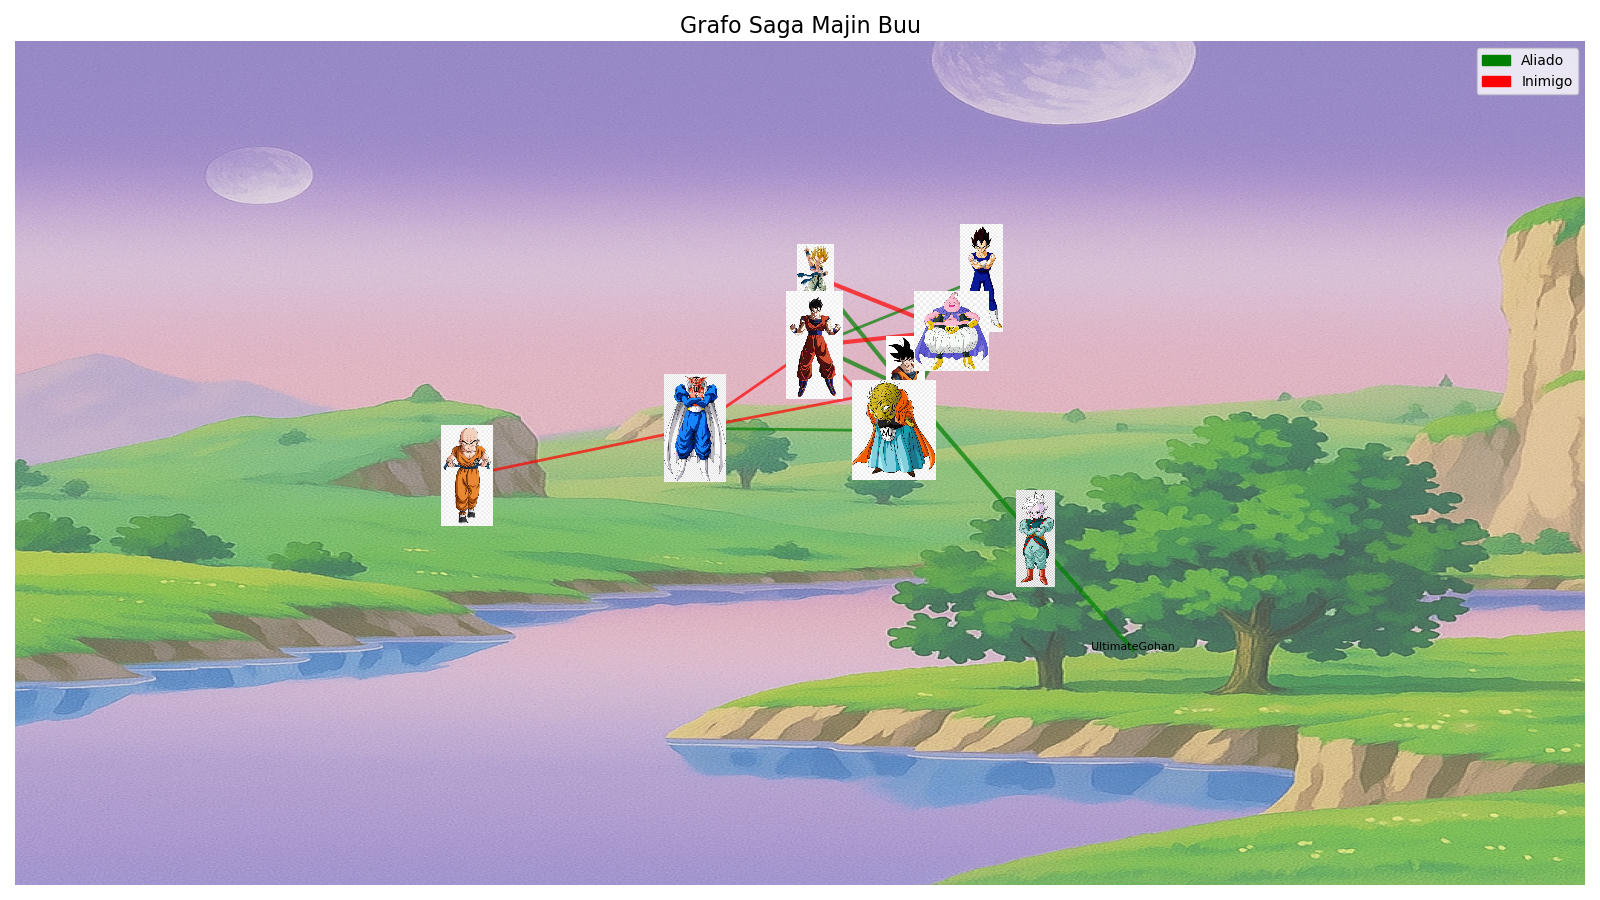
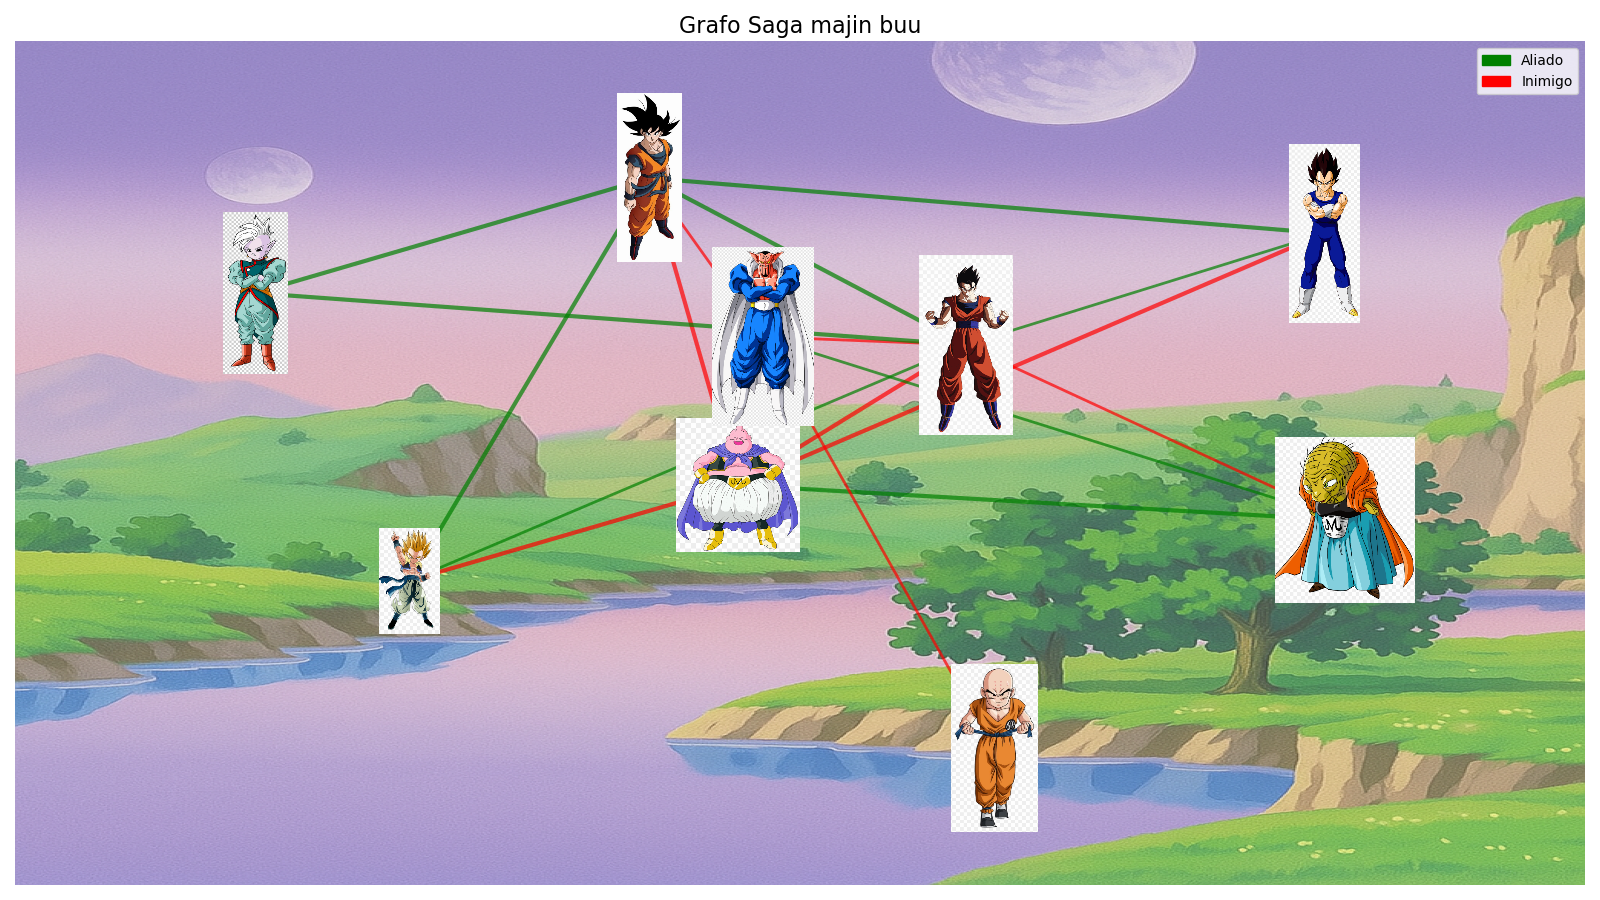
finalizando

diff --git a/src/grafo.py b/src/grafo.py
@@ -1,141 +1,11 @@
-# construir_grafo.py
-
-import csv
+from utils import carregar_imagens_personagens, carregar_relacoes, carregar_imagem, construir_grafo_por_saga, imprimir_metricas, desenhar_grafo_com_imagens
 import os
 import networkx as nx
-import matplotlib.pyplot as plt
-from PIL import Image
-from matplotlib.offsetbox import OffsetImage, AnnotationBbox
 
-# Constantes
 PERSONAGENS_CSV = "data/personagens.csv"
 RELACOES_CSV = "data/relacoes.csv"
 OUTPUT_DIR = "outputs/"
-FIGSIZE = (16, 9)
 
-def carregar_imagens_personagens(path):
-    imagens_personagens = {}
-    with open(path, newline='', encoding='utf-8') as csvfile:
-        reader = csv.DictReader(csvfile)
-        for row in reader:
-            imagens_personagens[row['nome']] = row['imagem']
-    return imagens_personagens
-
-def carregar_relacoes(path):
-    relacoes = []
-    with open(path, newline='', encoding='utf-8') as csvfile:
-        reader = csv.DictReader(csvfile)
-        for row in reader:
-            relacoes.append({
-                "origem": row["origem"],
-                "destino": row["destino"],
-                "tipo": row["tipo"],
-                "saga": row["saga"],
-                "peso": int(row["peso"])
-            })
-    return relacoes
-
-def carregar_imagem(caminho, zoom=0.15):
-    try:
-        imagem = Image.open(caminho)
-        return OffsetImage(imagem, zoom=zoom)
-    except FileNotFoundError:
-        print(f"Imagem não encontrada: {caminho}")
-        return None
-
-def construir_grafo_por_saga(relacoes, saga_nome=None):
-    G = nx.Graph()
-    for r in relacoes:
-        if saga_nome is None or r["saga"].lower() == saga_nome.lower():
-            G.add_node(r["origem"])
-            G.add_node(r["destino"])
-            G.add_edge(
-                r["origem"],
-                r["destino"],
-                tipo=r["tipo"],
-                peso=r["peso"]
-            )
-    return G
-
-def imprimir_metricas(G, nome_grafo):
-    print(f"\nMétricas do grafo: {nome_grafo}")
-    graus = dict(G.degree())
-    print("Grau dos nós:")
-    for k, v in graus.items():
-        print(f"  {k}: {v}")
-
-    centralidade = nx.betweenness_centrality(G)
-    print("\nCentralidade (betweenness):")
-    for k, v in centralidade.items():
-        print(f"  {k}: {v:.3f}")
-
-    componentes = nx.number_connected_components(G)
-    print(f"\nComponentes conectados: {componentes}")
-
-    if nx.is_connected(G):
-        diametro = nx.diameter(G)
-        print(f"Diâmetro da rede: {diametro}")
-    else:
-        print("Grafo desconexo, não tem diâmetro definido")
-
-def desenhar_grafo_com_imagens(G, pos, imagens, titulo="", nome_arquivo="grafo.png", saga=None):
-    fig, ax = plt.subplots(figsize=FIGSIZE)
-
-    # Fundo por saga
-    if saga:
-        saga_normalizada = saga.strip().lower()
-        mapa_arquivo = None
-
-        if "saiyajin" in saga_normalizada:
-            mapa_arquivo = "mapaSagaSayajin.png"
-        elif "freeza" in saga_normalizada:
-            mapa_arquivo = "mapaNamekZ.png"
-        elif "cell" in saga_normalizada:
-            mapa_arquivo = "arenaCell.png"
-        elif "majin" in saga_normalizada:
-            mapa_arquivo = "PlanetaSenhorKaioshin.png"
-
-        if mapa_arquivo:
-            caminho_mapa = os.path.join("imagens", "mapas", mapa_arquivo)
-            if os.path.exists(caminho_mapa):
-                try:
-                    img = Image.open(caminho_mapa)
-                    x_vals = [p[0] for p in pos.values()]
-                    y_vals = [p[1] for p in pos.values()]
-                    ax.imshow(img, extent=[min(x_vals)-1, max(x_vals)+1, min(y_vals)-1, max(y_vals)+1], aspect='auto', alpha=0.8)
-                except Exception as e:
-                    print(f"Erro ao carregar plano de fundo da saga {saga}: {e}")
-
-    # Arestas
-    for u, v, data in G.edges(data=True):
-        cor = 'green' if data['tipo'] == 'aliado' else 'red'
-        largura = max(0.5, data['peso'])
-        ax.plot(
-            [pos[u][0], pos[v][0]],
-            [pos[u][1], pos[v][1]],
-            color=cor,
-            linewidth=largura,
-            alpha=0.7
-        )
-
-    # Nós
-    for node in G.nodes():
-        if node in imagens:
-            ab = AnnotationBbox(imagens[node], pos[node], frameon=False)
-            ax.add_artist(ab)
-        else:
-            ax.text(*pos[node], node, fontsize=8, ha='center')
-
-    import matplotlib.patches as mpatches
-    aliado_patch = mpatches.Patch(color='green', label='Aliado')
-    inimigo_patch = mpatches.Patch(color='red', label='Inimigo')
-    plt.legend(handles=[aliado_patch, inimigo_patch], loc='best')
-
-    ax.set_title(titulo, fontsize=16)
-    ax.set_axis_off()
-    plt.tight_layout()
-    plt.savefig(os.path.join(OUTPUT_DIR, nome_arquivo))
-    plt.show()
 
 def main():
     if not os.path.exists(OUTPUT_DIR):
@@ -144,11 +14,30 @@ def main():
     imagens_path = carregar_imagens_personagens(PERSONAGENS_CSV)
     relacoes = carregar_relacoes(RELACOES_CSV)
 
-    sagas = set(r['saga'] for r in relacoes)
+    chefes_finais = {
+        "saiyajin": "Vegeta (saga Saiyajin)",
+        "freeza": "Freeza",
+        "cell": "Cell",
+        "majin buu": "Majin Buu"
+    }
+
+    sagas = set(r['saga'].lower() for r in relacoes)
     for saga in sagas:
         G_saga = construir_grafo_por_saga(relacoes, saga)
         imprimir_metricas(G_saga, f"Grafo Saga {saga}")
-        pos_saga = nx.spring_layout(G_saga, seed=42)
+
+        chefe = None
+        for chave in chefes_finais.keys():
+            if chave in saga:
+                chefe = chefes_finais[chave]
+                break
+
+        if chefe and chefe in G_saga.nodes():
+            pos_init = {chefe: [0, 0]}
+            pos_saga = nx.spring_layout(G_saga, seed=42, k=2.0, fixed=[chefe], pos=pos_init)
+        else:
+            pos_saga = nx.spring_layout(G_saga, seed=42, k=2.0)
+
         imagens_saga = {}
         for node in G_saga.nodes():
             caminho_img = imagens_path.get(node)
@@ -156,13 +45,18 @@ def main():
                 img = carregar_imagem(caminho_img)
                 if img:
                     imagens_saga[node] = img
-        nome_arquivo = f"grafo_saga_{saga.lower().replace(' ', '_')}.png"
+
+        nome_arquivo = f"grafo_saga_{saga.replace(' ', '_')}.png"
         desenhar_grafo_com_imagens(
             G_saga, pos_saga, imagens_saga,
             f"Grafo Saga {saga}",
             nome_arquivo,
             saga=saga
         )
+
+
+
+
 
 if __name__ == "__main__":
     main()

diff --git a/src/utils.py b/src/utils.py
@@ -1,0 +1,134 @@
+# src/utils.py
+
+import csv
+import os
+import networkx as nx
+import matplotlib.pyplot as plt
+from PIL import Image
+from matplotlib.offsetbox import OffsetImage, AnnotationBbox
+
+FIGSIZE = (16, 9)
+
+def carregar_imagens_personagens(path):
+    imagens_personagens = {}
+    with open(path, newline='', encoding='utf-8') as csvfile:
+        reader = csv.DictReader(csvfile)
+        for row in reader:
+            imagens_personagens[row['nome']] = row['imagem']
+    return imagens_personagens
+
+def carregar_relacoes(path):
+    relacoes = []
+    with open(path, newline='', encoding='utf-8') as csvfile:
+        reader = csv.DictReader(csvfile)
+        for row in reader:
+            relacoes.append({
+                "origem": row["origem"],
+                "destino": row["destino"],
+                "tipo": row["tipo"],
+                "saga": row["saga"],
+                "peso": int(row["peso"])
+            })
+    return relacoes
+
+def carregar_imagem(caminho, zoom=0.25):
+    try:
+        imagem = Image.open(caminho)
+        return OffsetImage(imagem, zoom=zoom)
+    except FileNotFoundError:
+        print(f"Imagem não encontrada: {caminho}")
+        return None
+
+def construir_grafo_por_saga(relacoes, saga_nome=None):
+    G = nx.Graph()
+    for r in relacoes:
+        if saga_nome is None or r["saga"].lower() == saga_nome.lower():
+            G.add_node(r["origem"])
+            G.add_node(r["destino"])
+            G.add_edge(
+                r["origem"],
+                r["destino"],
+                tipo=r["tipo"],
+                peso=r["peso"]
+            )
+    return G
+
+def imprimir_metricas(G, nome_grafo):
+    print(f"\nMétricas do grafo: {nome_grafo}")
+    graus = dict(G.degree())
+    print("Grau dos nós:")
+    for k, v in graus.items():
+        print(f"  {k}: {v}")
+
+    centralidade = nx.betweenness_centrality(G)
+    print("\nCentralidade (betweenness):")
+    for k, v in centralidade.items():
+        print(f"  {k}: {v:.3f}")
+
+    componentes = nx.number_connected_components(G)
+    print(f"\nComponentes conectados: {componentes}")
+
+    if nx.is_connected(G):
+        diametro = nx.diameter(G)
+        print(f"Diâmetro da rede: {diametro}")
+    else:
+        print("Grafo desconexo, não tem diâmetro definido")
+
+def desenhar_grafo_com_imagens(G, pos, imagens, titulo="", nome_arquivo="grafo.png", saga=None):
+    fig, ax = plt.subplots(figsize=FIGSIZE)
+
+    # Fundo por saga
+    if saga:
+        saga_normalizada = saga.strip().lower()
+        mapa_arquivo = None
+
+        if "saiyajin" in saga_normalizada:
+            mapa_arquivo = "mapaSagaSayajin.png"
+        elif "freeza" in saga_normalizada:
+            mapa_arquivo = "mapaNamekZ.png"
+        elif "cell" in saga_normalizada:
+            mapa_arquivo = "arenaCell.png"
+        elif "majin" in saga_normalizada:
+            mapa_arquivo = "PlanetaSenhorKaioshin.png"
+
+        if mapa_arquivo:
+            caminho_mapa = os.path.join("imagens", "mapas", mapa_arquivo)
+            if os.path.exists(caminho_mapa):
+                try:
+                    img = Image.open(caminho_mapa)
+                    x_vals = [p[0] for p in pos.values()]
+                    y_vals = [p[1] for p in pos.values()]
+                    ax.imshow(img, extent=[min(x_vals)-1, max(x_vals)+1, min(y_vals)-1, max(y_vals)+1], aspect='auto', alpha=0.8)
+                except Exception as e:
+                    print(f"Erro ao carregar plano de fundo da saga {saga}: {e}")
+
+    # Arestas
+    for u, v, data in G.edges(data=True):
+        cor = 'green' if data['tipo'] == 'aliado' else 'red'
+        largura = max(0.5, data['peso'])
+        ax.plot(
+            [pos[u][0], pos[v][0]],
+            [pos[u][1], pos[v][1]],
+            color=cor,
+            linewidth=largura,
+            alpha=0.7
+        )
+
+    # Nós
+    for node in G.nodes():
+        if node in imagens:
+            ab = AnnotationBbox(imagens[node], pos[node], frameon=False)
+            ax.add_artist(ab)
+        else:
+            ax.text(*pos[node], node, fontsize=8, ha='center')
+
+    import matplotlib.patches as mpatches
+    aliado_patch = mpatches.Patch(color='green', label='Aliado')
+    inimigo_patch = mpatches.Patch(color='red', label='Inimigo')
+    plt.legend(handles=[aliado_patch, inimigo_patch], loc='best')
+
+    ax.set_title(titulo, fontsize=16)
+    ax.set_axis_off()
+    plt.tight_layout()
+    plt.savefig(os.path.join("outputs", nome_arquivo))
+    plt.show()

diff --git a/src/view_for_saga.py b/src/view_for_saga.py
@@ -1,0 +1,42 @@
+
+import networkx as nx
+from utils import (
+    carregar_imagens_personagens,
+    carregar_relacoes,
+    carregar_imagem,
+    construir_grafo_por_saga,
+    imprimir_metricas,
+    desenhar_grafo_com_imagens
+)
+
+PERSONAGENS_CSV = "data/personagens.csv"
+RELACOES_CSV = "data/relacoes.csv"
+
+def visualizar_saga(saga_nome):
+    imagens_path = carregar_imagens_personagens(PERSONAGENS_CSV)
+    relacoes = carregar_relacoes(RELACOES_CSV)
+
+    G_saga = construir_grafo_por_saga(relacoes, saga_nome)
+    imprimir_metricas(G_saga, f"Grafo Saga {saga_nome}")
+
+    pos_saga = nx.spring_layout(G_saga, seed=42, k=5)
+    imagens_saga = {}
+
+    for node in G_saga.nodes():
+        caminho_img = imagens_path.get(node)
+        if caminho_img:
+            img = carregar_imagem(caminho_img)
+            if img:
+                imagens_saga[node] = img
+
+    nome_arquivo = f"grafo_saga_{saga_nome.lower().replace(' ', '_')}.png"
+    desenhar_grafo_com_imagens(
+        G_saga, pos_saga, imagens_saga,
+        f"Grafo Saga {saga_nome}",
+        nome_arquivo,
+        saga=saga_nome
+    )
+
+
+if __name__ == "__main__":
+    visualizar_saga("Saiyajins")
